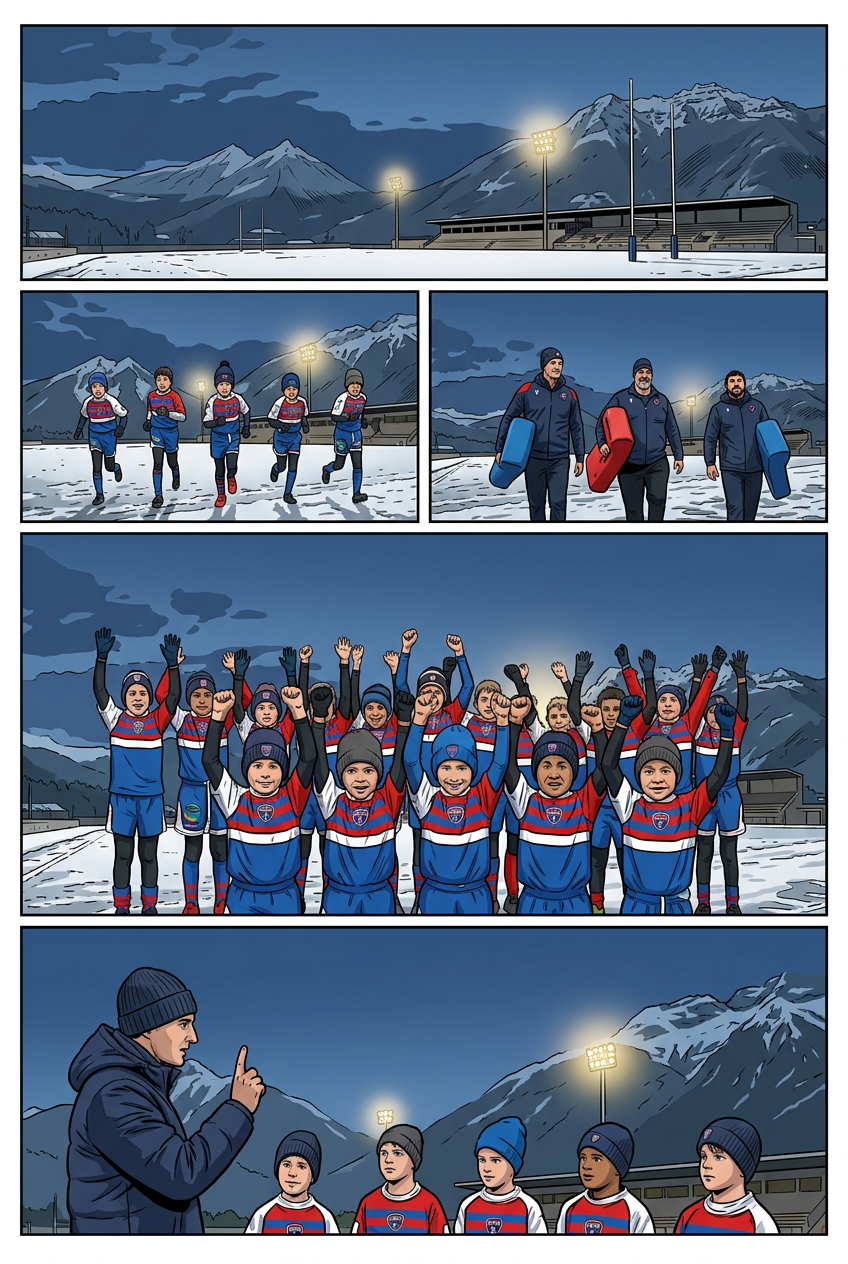
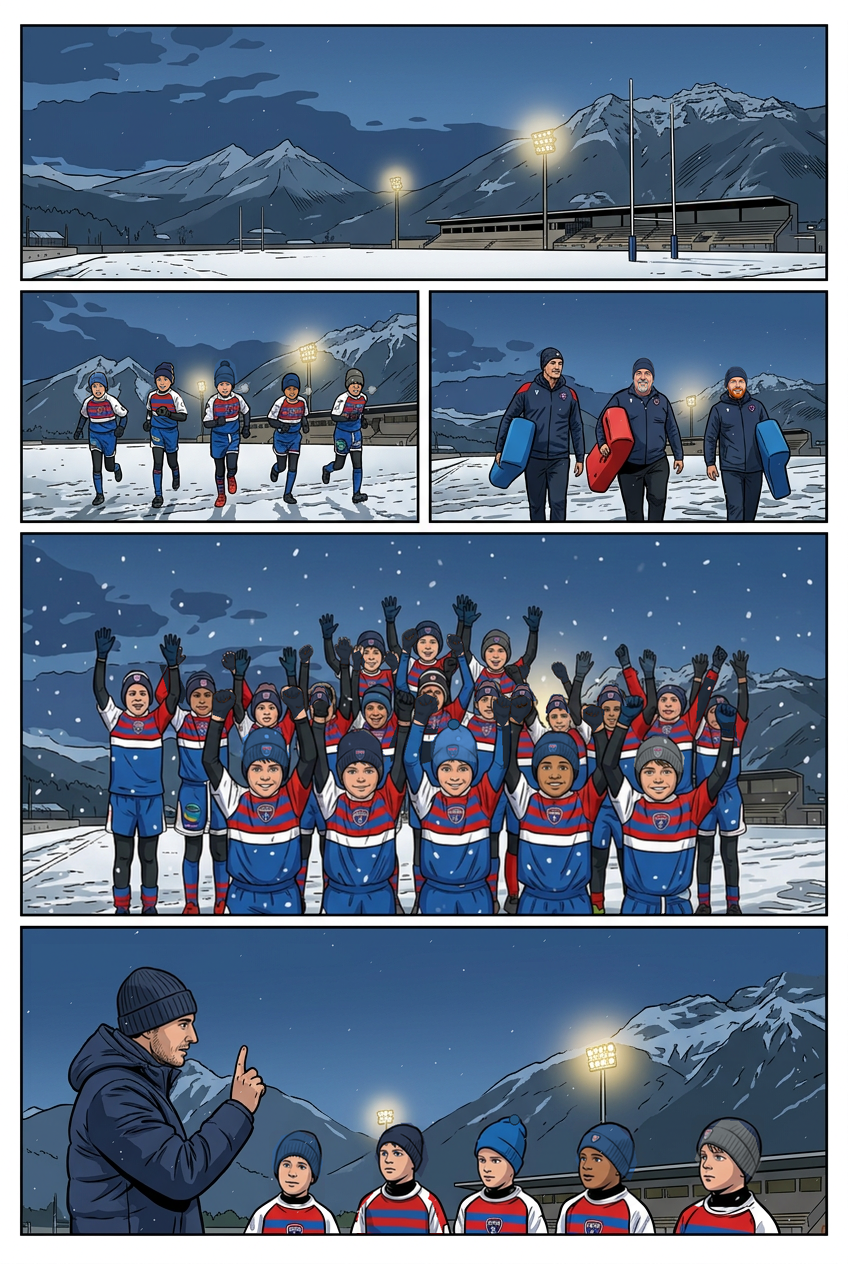
Reprendre la planche 17 et retablir les vingt joueurs en hiver

diff --git a/Planches-dessin/validation/REVUE-COUVERTURE.md b/Planches-dessin/validation/REVUE-COUVERTURE.md
@@ -21,13 +21,13 @@ Les huit recadrages exacts sont dans `revue-couverture/<Prénom>-couverture.png`
 |---|---:|
 | Planches vues en ensemble | 30 |
 | Vignettes réellement inventoriées | 153 |
-| Premières reprises intégrées, encore à relire | 84 |
+| Premières reprises intégrées, encore à relire | 89 |
 | Corrections seulement partielles, à poursuivre | 0 |
 | Contrôles sans retouche, encore à relire | 1 |
-| Autres vignettes restant à contrôler individuellement | 68 |
+| Autres vignettes restant à contrôler individuellement | 63 |
 | Validations définitives de style et ressemblance | **0** |
 
-Les 84 vignettes ayant reçu une intervention ne sont pas 84 vignettes définitivement conformes. Le reste de la revue demandée n’est pas terminé. Le manifeste `REVUE-COUVERTURE.json` conserve une entrée et un état explicite pour chacune des 153 vignettes.
+Les 89 vignettes ayant reçu une intervention ne sont pas 89 vignettes définitivement conformes. Le reste de la revue demandée n’est pas terminé. Le manifeste `REVUE-COUVERTURE.json` conserve une entrée et un état explicite pour chacune des 153 vignettes.
 
 ## Première livraison : 26/3 et 26/6
 
@@ -315,6 +315,26 @@ Le maillot uni de Lyssandro en 16/3 est corrigé localement (bande bleue et manc
 
 **Réserves transversales :** âge apparent des nouveaux profils et détail portraits/corps, cohérence des franges d'Ayden entre 16/1–2 et 16/4–5, rondeur/frange de Milo en 16/3/5, raccord des cheveux seuls de Léon 16/5, col et bande du maillot de Lyssandro en 16/3, petits raccords de fond autour de Flavien 16/5, lisibilité des marquages après blanchiment de manche et correspondance visage/bras de Nolann. Rien ici ne vaut une validation définitive de ces raccords. Aucun dialogue/bulle/onomatopée ajouté. Il reste 68 cases à examiner individuellement, puis la relecture de continuité des 153 cases.
 
+## Dix-neuvième livraison : les cinq vignettes de la planche 17
+
+Première passe hivernale, pas une validation définitive. Scénario et cinq sources réalistes comparés : bonnet/gants/sous-couches pour les enfants, vestes épaisses et bonnets pour les éducateurs. Le modèle d'identité est celui de la couverture, mais les cheveux sont normalement cachés sous les bonnets ; les pics de Léon ne sont pas artificiellement ajoutés à travers son bonnet.
+
+**17/1 :** Paysage hivernal déjà dessiné en BD conservé : montagnes enneigées, stade, gradins, poteaux et projecteurs inchangés hors flocons. Ajout local de petits flocons visibles pour la chute de neige prescrite, sans changer la météo lumineuse ni le cadrage.
+
+**17/2 :** Cinq garçons dans l'ordre Léon/Lyssandro/Ayden/Nolann/Milo. Portraits sous les bonnets et buée repris localement ; bonnet manquant de Lyssandro ajouté. Son haut/bras rapprochés du modèle d'hiver : manches courtes blanches et sous-couche noire. Les bonnets sont harmonisés avec les cases suivantes : Léon bleu, Lyssandro marine, Ayden bleu à pompon, Nolann bleu, Milo gris. Carnation mate de Nolann, visages clairs des autres et cinq coureurs conservés. Corps/terrain hors zones locales gardés, pas de texte.
+
+**17/3 :** Trois coachs avec trois boudins bleu/rouge/bleu conservés. Portraits isolés pour Julien (moustache/bouc gris, pas barbe intégrale) et Kilian (bonnet marine ajouté, barbe et sourcils roux, pas noirs). Flavien à gauche déjà sous bonnet et identifiable, corps/mains/boudins/décor d'origine conservés. Candidat complet rejeté : il déplaçait/aplatissait les coachs et les équipements.
+
+**17/4 :** Comptage source : 17 enfants visibles, pas les 20 prescrits. Reprise de la vignette pour ajouter trois enfants anonymes derrière le groupe : 5 principaux devant, 12 autres déjà visibles, 3 ajoutés plus loin = 20. Les cinq de devant sont Léon/Lyssandro/Ayden/Nolann/Milo. Bonnet/carnation mate de Nolann et couleurs de bonnets harmonisés ; mains nues restantes reprises en gants sombres, bonnets ajoutés sur les têtes anonymes dénudées et sous-couches longues rapprochées du noir. Flocons et équipement d'hiver, pas d'adulte ni de nouveau dialogue.
+
+**17/5 :** Flavien de profil à gauche retrouve sa légère moustache/barbe, bonnet conservé ; son doigt levé, sa main et son corps sont gardés. Portraits des cinq enfants attentifs sous bonnets repris localement, couleurs harmonisées ; Nolann reste mat, pas arbitrairement plus foncé. Maillot uni et manches rouges de Lyssandro remplacés localement par rayures et épaules/manches courtes blanches, sous-col thermique noir. Autres corps et décor hors masque conservés.
+
+Preuves : `revue-couverture/lot-s/17-AVANT-APRES.jpg`, cinq masques et **`17-4-COMPTAGE.jpg/.json`**. Le repérage numérote 20 têtes distinctes (les 5 principaux, 12 anonymes déjà présents, puis les 3 ajouts), dont des enfants de dos ou partiellement masqués par les bras. Ce n'est pas une reconnaissance automatique des identités ; les points ont été relus visuellement sur le montage. Les sources BD et réaliste montraient seulement 17 enfants : elles ne priment pas sur le nombre de 20 demandé dans le scénario.
+
+Seule 17/4 est reprise dans son ensemble pour réparer le groupe ; les autres cases sont des retouches locales. Les flocons de 17/1 sont la seule intervention sur le paysage déjà dessiné : pas de nouveau décor ou de visage à y inventer. Le candidat déplaçant les trois coachs et leurs boudins est écarté. Le maintien des corps originaux conserve les boudins bleu/rouge/bleu et le doigt levé de 17/5. Les bonnets manquants des anonymes sont des imports d'un bonnet déjà dessiné dans le groupe, détourés derrière les poings du premier plan ; pas une substitution d'identités.
+
+**Réserves de continuité à relire :** mêmes cinq visages sous les bonnets entre 17/2, 17/4 et 17/5, âge apparent des visages et écart de détail corps/portraits, forme (pas seulement couleur) des bonnets, mains gantées/occlusions et rattachement des bras aux 20 corps, sous-couches et manches courtes blanches encore à revoir sur les anonymes en arrière-plan, carnation de Nolann visage/cou, cols des coachs et petits raccords des bonnets ajoutés. L'ajout de trois enfants et le repérage de 20 têtes ne certifient pas seuls l'anatomie de tous les bras. Aucun dialogue, bulle ni onomatopée ajouté. Il reste 63 cases à examiner individuellement, puis la relecture transversale de toute la série.
+
 ## Contrôles techniques et audits historiques
 
 `outils/retouche/verifier_revue_couverture.py` compare les 31 PNG au début de la revue : couverture inchangée, dimensions, empreintes, absence de modification des fichiers non concernés et invariance des pixels hors masques. Il contrôle également la cohérence des états et du bilan. **Il ne mesure pas la ressemblance ou la qualité du dessin.**
@@ -323,7 +343,7 @@ Les vérificateurs des audits 13–22, comme ceux de 23–30, s’appliquent dé
 
 ## Suite obligatoire
 
-Contrôler individuellement les **68 autres vignettes**, terminer **14/2**, puis relire les premières reprises, notamment les six cases de la planche 4 et les réserves de scénario. Vérifier systématiquement chaque occurrence de Nolann et des sept autres personnages, ainsi que décors et encrage : la revue ne peut pas se limiter aux couleurs de peau/cheveux.
+Contrôler individuellement les **63 autres vignettes**, terminer **14/2**, puis relire les premières reprises, notamment les six cases de la planche 4 et les réserves de scénario. Vérifier systématiquement chaque occurrence de Nolann et des sept autres personnages, ainsi que décors et encrage : la revue ne peut pas se limiter aux couleurs de peau/cheveux.
 
 Procédure : identification au scénario → comparaison aux personnages de couverture → comparaison à la planche réaliste → correction locale → relecture en contexte de page. Les raccords cou/cheveux/mains et les tenues restent à contrôler. Aucun candidat simplement généré n’est automatiquement validé.
 

diff --git a/Planches-dessin/SUIVI-STYLE.md b/Planches-dessin/SUIVI-STYLE.md
@@ -2,7 +2,7 @@
 
 **La couverture `00-couverture-marvel.png` est désormais la seule référence de style et d’identité.** La décision utilisateur remplace la priorité V2 décrite dans l’historique ci-dessous. La couverture reste inchangée.
 
-Suivi actuel : [`validation/REVUE-COUVERTURE.md`](validation/REVUE-COUVERTURE.md) et son manifeste JSON : 153 vignettes inventoriées, 84 premières reprises, 1 contrôle sans retouche, 0 correction partielle, 68 autres contrôles individuels à faire, aucune validation définitive. Les anciennes approbations ne valent pas conformité au nouveau référentiel.
+Suivi actuel : [`validation/REVUE-COUVERTURE.md`](validation/REVUE-COUVERTURE.md) et son manifeste JSON : 153 vignettes inventoriées, 89 premières reprises, 1 contrôle sans retouche, 0 correction partielle, 63 autres contrôles individuels à faire, aucune validation définitive. Les anciennes approbations ne valent pas conformité au nouveau référentiel.
 
 ---
 
